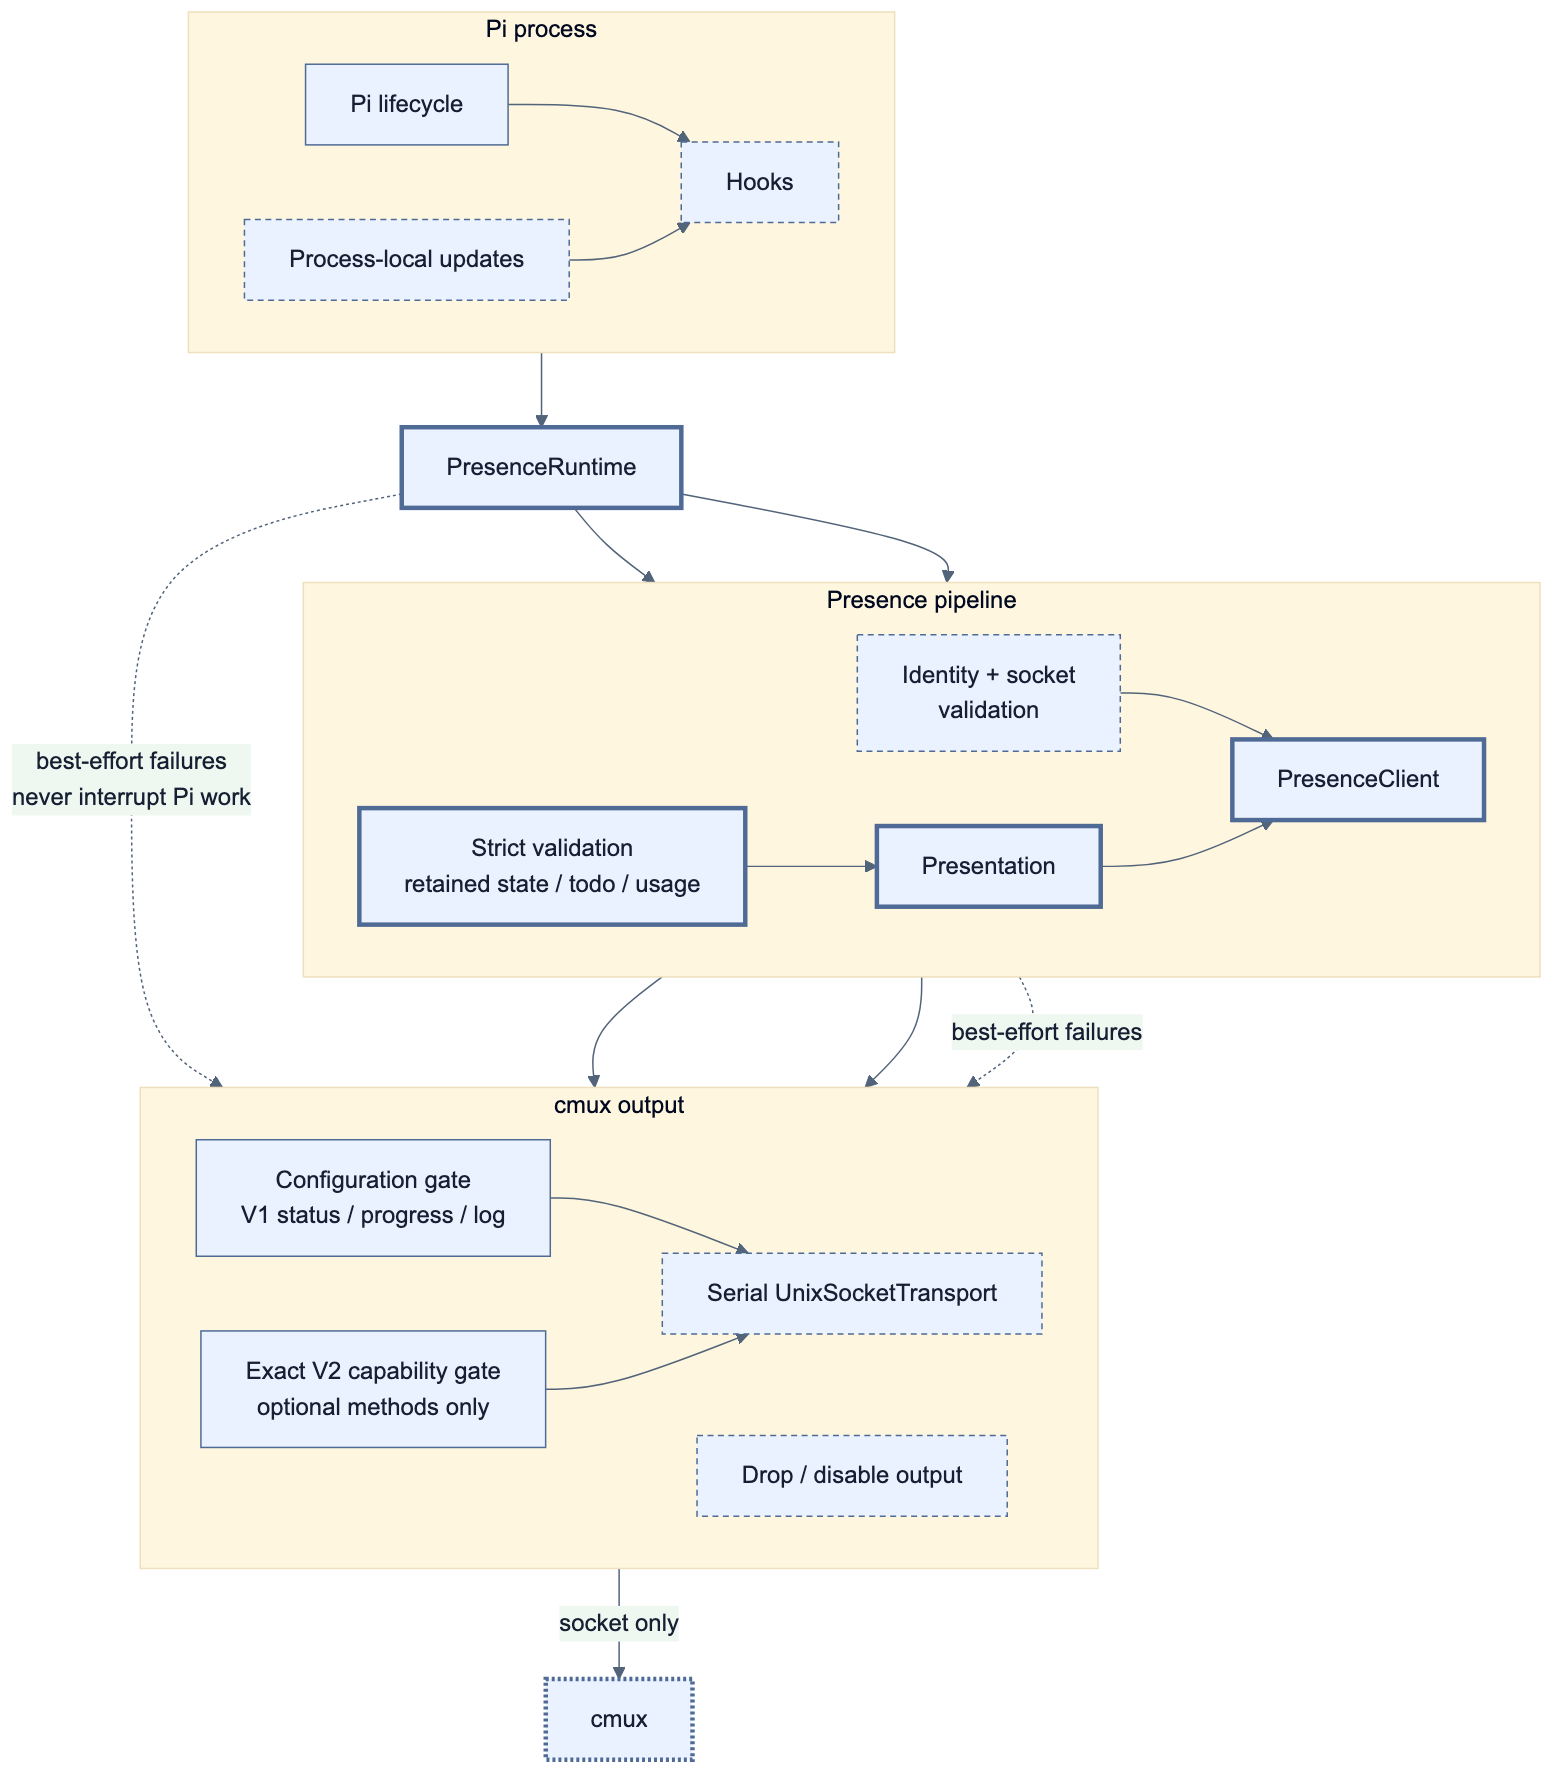
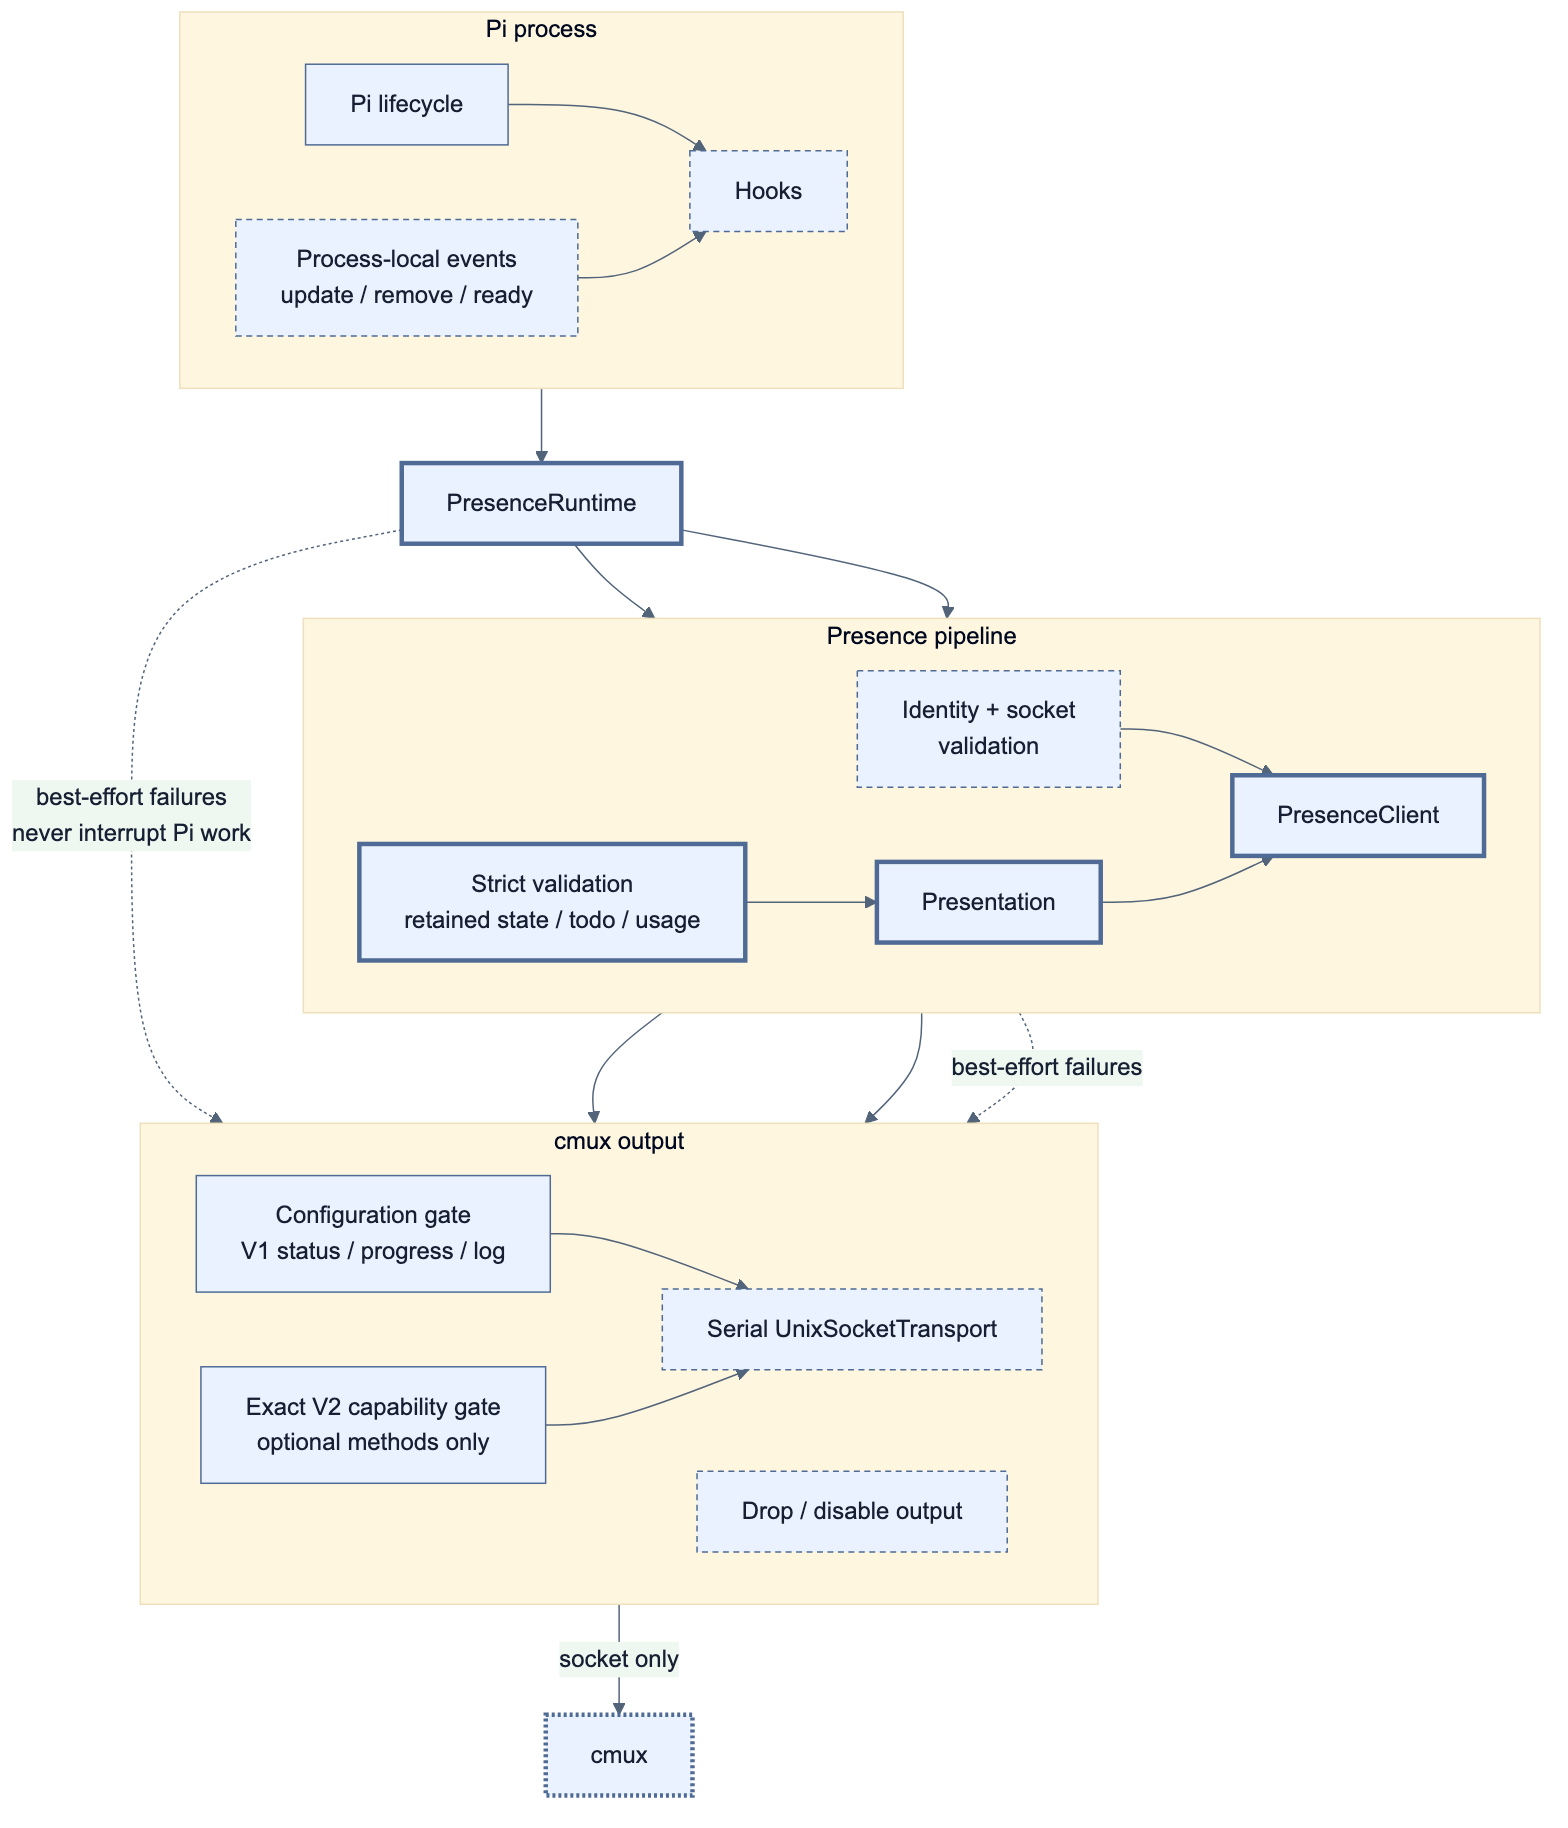
docs: presence 계약과 운영 문서 정비

diff --git a/README.md b/README.md
@@ -47,14 +47,14 @@ pi install -l /absolute/path/to/pi-cmux-presence
 - 상태 키는 `surfaceId:sourceId`를 SHA-256으로 해시한 `pi-presence:<hash>`입니다. `set_status`는 해당 surface의 `--panel=<CMUX_SURFACE_ID>`를 포함하므로 상태 표시는 surface 범위입니다.
 - 상태별 cmux 스타일은 `idle`(gray/circle/10), `waiting`(amber/clock/20), `running`(blue/play/30), `success`(green/check/20), `error`(red/x/40), `cancelled`(gray/minus/20)입니다.
 - 내장 Pi lifecycle 관찰은 기본 활성(`PI_CMUX_PRESENCE_NATIVE_LIFECYCLE=true`)입니다. Pi PID와 `running`/`idle` lifecycle을 panel 범위로 보냅니다. `idle`은 cmux가 Pi가 유휴 상태임을 알 수 있게 하는 관찰 신호일 뿐, 이 패키지가 surface를 hibernate·resume하거나 Pi 작업을 제어한다는 뜻은 아닙니다.
-- 최종 상태는 idle `agent_settled`에서 확정합니다. host가 그 hook 등록을 지원하지 않을 때만 `agent_end` fallback을 사용합니다. assistant 토큰, 양수 비용, 가능한 context 사용률과 `tool_result.isError`를 반영합니다. 내장 Pi 이벤트는 progress를 추정하지 않습니다.
+- 최종 상태는 settlement를 의미하는 `agent_settled`에서 확정합니다. host context가 `isIdle()`을 제공해 명시적으로 `false`를 반환하면 확정하지 않으며, host가 그 hook 등록을 지원하지 않을 때만 `agent_end` fallback을 사용합니다. assistant 토큰, 양수 비용, 가능한 context 사용률과 `tool_result.isError`를 반영합니다. 내장 Pi 이벤트는 progress를 추정하지 않습니다.
 - host session ID가 이벤트 계약의 safe text 조건(1–96 Unicode code points)을 만족하지 않거나 조회 중 오류가 나면 해당 세션의 presence를 fail-closed로 비활성화하고 기존에 소유한 출력을 정리합니다. Pi lifecycle 오류로 전파하지 않습니다.
 - 상태·progress·notification·auto-title 문자열은 control/bidi 문자를 정규화하고 Unicode code point를 자르지 않으면서 설정의 글자 수와 목적지별 UTF-8 byte 한도를 모두 만족하도록 축약합니다.
 - 모든 관찰 쓰기는 best-effort입니다. 소켓 오류·시간 초과·큐 포화·응답 오류는 Pi 작업을 실패시키지 않으며 해당 출력만 유실될 수 있습니다. 같은 key로 대기 중인 UI 쓰기는 하나의 promise를 공유하며 최신 요청으로 교체되는 latest-write-wins 방식으로 병합되고, 이미 실행 중인 요청은 교체하지 않습니다. 이는 소켓 **전송** 병합이며, `pi-subagent`의 terminal 집계·시간 창 병합과는 별개입니다.
 - 외부 producer는 선택 사항입니다. 특히 `pi-subagent`는 이 패키지의 dependency나 import가 아니며, 같은 프로세스 event bus에 V1 summary를 발행할 때에만 선택적으로 연동됩니다. 정확히 `source.id: "pi-subagent"`인 입력에는 누적 terminal attention을 안전하게 한 번으로 묶는 소비자 측 정책이 적용됩니다. 상세 계약은 [`docs/pi-subagent-integration.md`](docs/pi-subagent-integration.md)를 참고하세요.
 - 검토한 외부 cmux child profile은 정확히 `PI_CMUX_PROFILE=subagent-child-v1`일 때만 인식합니다. 이 profile과 정확한 `PI_CMUX_NOTIFY_LEVEL=disabled` 또는 `PI_CMUX_SIDEBAR_FLASH=disabled` 조합은 각각 native notification 또는 native flash만 억제하고, sidebar status·progress·log는 유지합니다. 이는 환경 호환 경계일 뿐 dependency나 child lifecycle authority가 아닙니다. 세부 precedence는 [`docs/configuration.md`](docs/configuration.md)를 참고하세요.
-- local Pi sidebar는 상태별로 `Pi · Waiting`/`Writing response`/`Response ready`/`Needs attention`/`Cancelled`의 canonical fixed wording을 사용합니다. native notification은 title `Pi`와 같은 summary body를 사용하며, terminal sidebar는 `PI_CMUX_PRESENCE_FINAL_CLEAR_MS` 뒤 지웁니다. notification 보존과 focused-banner suppression은 cmux 소유입니다.
-- `PI_CMUX_PRESENCE_NOTIFY_POLICY`의 기본값은 계속 `background`입니다. opt-in `settled`는 local success/error와 external error만 notification으로 허용하고 external info/success는 허용하지 않습니다. official hook precedence 뒤 child channel suppression, legacy kill switch, policy, V2 capability가 모두 gate합니다.
+- local Pi sidebar는 상태별로 `Pi · Idle`/`Waiting`/`Writing response`/`Response ready`/`Needs attention`/`Cancelled`의 canonical fixed wording을 사용합니다. native notification은 title `Pi`와 같은 summary body를 사용하며, terminal sidebar는 `PI_CMUX_PRESENCE_FINAL_CLEAR_MS` 뒤 지웁니다. notification 보존과 focused-banner suppression은 cmux 소유입니다.
+- `PI_CMUX_PRESENCE_NOTIFY_POLICY`의 기본값은 계속 `background`입니다. opt-in `settled`는 local success/error와 external error를 notification으로 허용하고 일반 external info/success는 허용하지 않습니다. 단, 성공한 부모 settlement와 exact `pi-subagent` 성공 집계가 병합된 결과는 finalized local completion으로 취급합니다. official hook precedence 뒤 child channel suppression, legacy kill switch, policy, V2 capability가 모두 gate합니다.
 - local Pi와 정확한 `pi-subagent` producer의 cancellation은 status-only이며 `attention: "none"`입니다. `all`/`attention` 정책이어도 notification·flash를 만들지 않습니다.
 
 ### 공식 cmux hook 우선순위

diff --git a/CHANGELOG.md b/CHANGELOG.md
@@ -4,19 +4,22 @@
 
 ### 신뢰성
 
-- `settled` notification policy를 추가했습니다. 기본값은 계속 `background`이며, settled는 local success/error와 external error만 허용하고 external info/success는 억제합니다.
+- consumer-side `pi-presence:remove:v1`을 추가해 수락된 외부 source의 retained status를 철회하고, 공유 generation/sequence tombstone fence를 유지한 채 progress와 opt-in meta block을 다시 계산합니다. exact `pi-subagent` remove는 pending terminal 집계를 무효화하고 보류된 local parent attention을 고정 fallback으로 복원합니다.
+- `settled` notification policy를 추가했습니다. 기본값은 계속 `background`이며, settled는 local success/error와 external error를 허용하고 generic external info/success는 억제합니다. 성공 부모 settlement와 exact `pi-subagent` 성공 집계의 병합은 finalized local completion으로 허용합니다.
 - local Pi sidebar/notification을 canonical fixed wording으로 통일하고, terminal sidebar clear와 cmux notification retention의 소유권을 분리했습니다.
 - 응답 전 소켓 종료를 즉시 실패로 처리하고, bounded aggregate teardown 안에서 분리 세션 정리 작업을 순차적으로 best-effort 시도합니다.
 
 ### 테스트
 
+- remove parser의 strict envelope, update/remove 공유 fence와 tombstone, reserved source, exact status clear, progress/meta 재계산, attention silence, exact `pi-subagent` pending invalidation과 local fallback 복원을 검증합니다.
 - `settled` config trim/case, policy matrix·kill switch, canonical local formatter의 static/no-payload byte bound, idle settlement의 exactly-once local notification과 final sidebar clear를 검증합니다.
 - 응답 없이 종료되는 소켓과 지연된 다수 status 정리 경로를 검증합니다.
 - 검토한 exact child profile, local·`pi-subagent` cancellation의 무attention, active-parent 고정 window·10초 fence, stale official-hook probe, capability 독립성, privacy canary, replacement/shutdown fence 및 notification failure 격리를 fake Unix socket acceptance로 검증합니다.
 
 ### 문서
 
-- settled policy matrix, precedence, focus polling 부재와 cmux의 focused-banner/notification retention 소유권, canonical local wording·privacy boundary를 문서화합니다.
+- `pi-presence:remove:v1` payload, shared fence tombstone, ready capability, producer 호환성, 무attention 철회와 event-flow를 문서화합니다.
+- settled policy matrix와 merged finalized-local 예외, precedence, focus polling 부재와 cmux의 focused-banner/notification retention 소유권, canonical local wording·privacy boundary를 문서화합니다.
 - capability negotiation, 공식 hook 우선순위, usage delta 및 다이어그램·릴리스 이력을 문서화합니다.
 - `PI_CMUX_PROFILE=subagent-child-v1`의 exact channel suppression, producer lifecycle 경계, 고정 450ms/100ms terminal window와 제한된 consumer-side static/fake-socket acceptance 범위를 문서화합니다.
 

diff --git a/docs/feature-ownership.md b/docs/feature-ownership.md
@@ -15,7 +15,7 @@
 | subagent 실행·취소·결과 | 관여하지 않음 | 실행 패키지가 authority를 유지 | scheduler, lease, reaper, cleanup 등의 실제 범위는 외부 구현의 계약 |
 | cmux 상태 스타일 | state별 고정 icon/color/priority, surface-scoped key | cmux 직접 mutation을 요구하지 않음 | V1 socket |
 | cmux progress | todo-first deterministic 단일 슬롯 중재; flag가 꺼지면 초기·종료 clear도 생략 | 실제로 보유한 determinate progress만 선택 발행 가능 | cmux workspace당 progress 슬롯 하나 |
-| 알림·flash·log | official hook 우선 뒤 channel suppression·레거시 kill switch·policy·capability로 게이팅; exact `pi-subagent` terminal은 의미적으로 한 번만 집계 | foreground/background terminal summary를 동일하게 발행 가능 | `settled`는 local success/error와 external error만 notification; terminal success는 parent settlement와 병합; replay/cancel/handoff는 `attention: "none"`; 성공 flash는 기본 비활성 |
+| 알림·flash·log | official hook 우선 뒤 channel suppression·레거시 kill switch·policy·capability로 게이팅; exact `pi-subagent` terminal은 의미적으로 한 번만 집계 | foreground/background terminal summary를 동일하게 발행 가능 | `settled`는 local success/error·external error와 finalized local completion인 merged parent/subagent success를 notification; generic external info/success는 제외; replay/cancel/handoff는 `attention: "none"`; 성공 flash는 기본 비활성 |
 | Pi PID/lifecycle | 공식 hook 부재 시 기본 활성 fallback | 관여하지 않음 | generic event가 PID/lifecycle command를 만들 수 없음 |
 | Feed | 공식 hook 부재 시 opt-in privacy-minimal fallback | Feed 직접 호출을 요구하지 않음 | prompt/input/output/path 제외 |
 | metadata block | opt-in 숫자 집계 | 숫자 summary를 event에 포함할 수 있음 | producer text 제외 |
